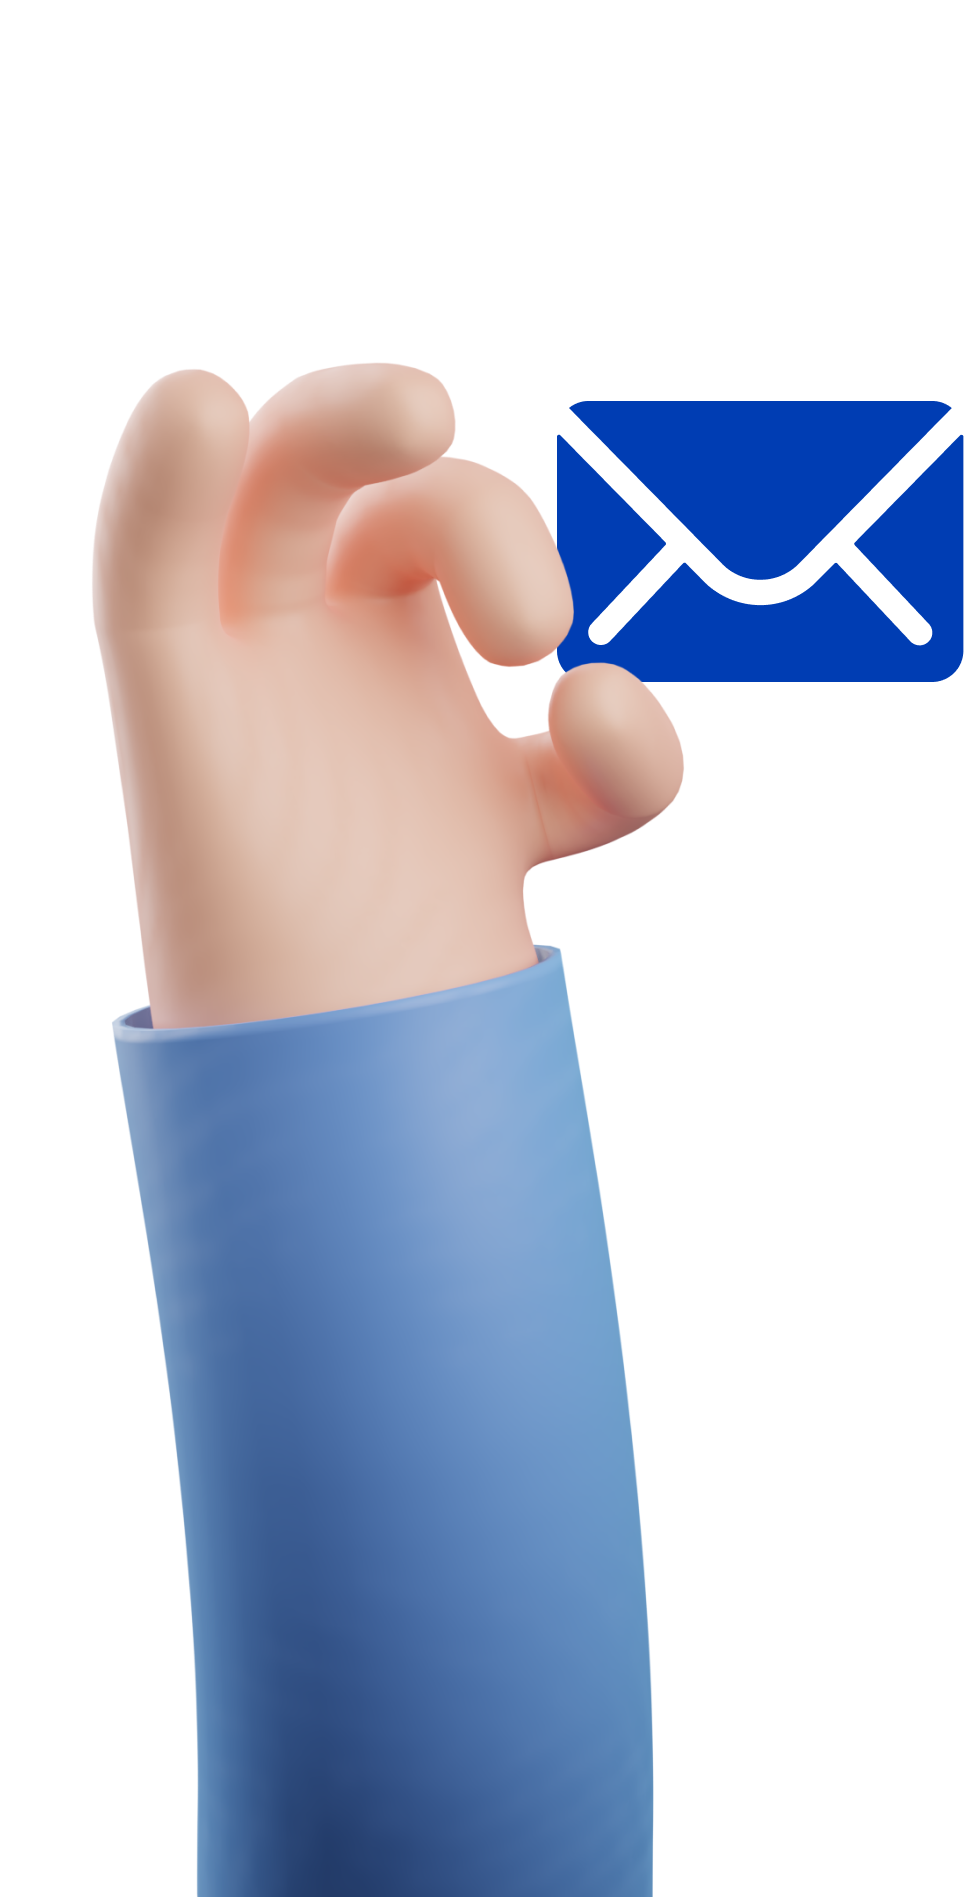
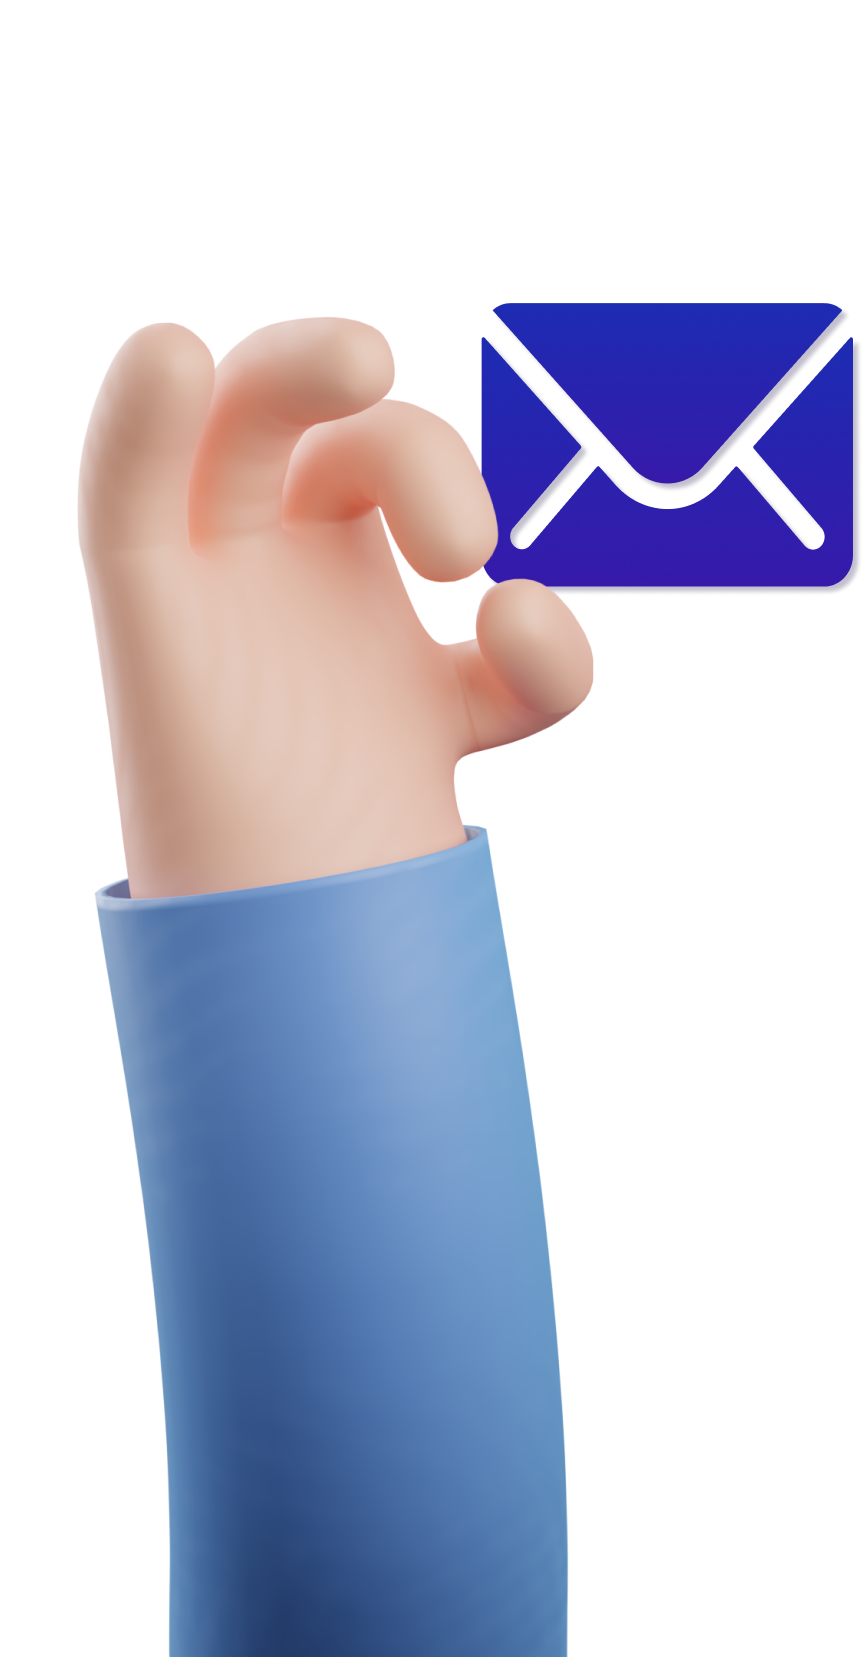
purple

diff --git a/src/Components/About/About-elements.js b/src/Components/About/About-elements.js
@@ -1,7 +1,7 @@
 import styled from "styled-components";
 import { HiDownload } from "react-icons/hi";
 import { Link as LinkS } from "react-scroll";
-import { Regular, HeroGradientReverse } from "../../App-variables";
+import { HeroGradientReverse, Dark } from "../../App-variables";
 
 export const AboutContainer = styled.div`
   color: black;
@@ -92,9 +92,10 @@ export const TextWrapper = styled.div`
 `;
 
 export const TopLine = styled.p`
-  color: ${Regular};
+  color: ${Dark};
   padding: 5px;
   font-size: 21px;
+  font-family: "Montserrat", sans serif;
   line-height: 16px;
   font-weight: 700;
   letter-spacing: 1.4px;
@@ -120,7 +121,7 @@ export const Heading = styled.h1`
   line-height: 1.1;
   font-weight: bold;
   cursor: default;
-  color: ${Regular};
+  color: ${Dark};
 
   @media screen and (max-width: 480px) {
     font-size: 26px;
@@ -205,9 +206,9 @@ export const ImgWrapper = styled.div`
 export const HeroP = styled.div`
   display: flex;
   margin: 20px 0;
-  color: ${Regular};
+  color: ${Dark};
   font-size: 21px;
-  font-family: "Montserrat";
+
   font-weight: bold;
   text-align: center;
   justify-content: center;

diff --git a/src/Components/About/About-section.js b/src/Components/About/About-section.js
@@ -1,6 +1,6 @@
 import React, { useState } from "react";
 import "aos/dist/aos.css";
-import Radu_Calin_Resume from "./../../Assets/Radu_Calin_Resume.PDF";
+import Radu_Calin_Resume from "./../../Assets/Radu_Calin_Resume.pdf";
 import { ArrowRight, ArrowForward } from "../Hero/Hero-elements";
 import "./About-button.styles.css";
 import LaptopNerd from "./../../Assets/LaptopNerd.png";
@@ -49,8 +49,8 @@ const AboutSection = () => {
                 </VideoWrapper>
                 <HeroP>
                   <p className="heroP left">&#8220;</p>
-                  Let`s discover and build new possibilities in which we can
-                  expand your vision! <p className="heroP right">&#8221;</p>
+                  There are no problems, only functions!{" "}
+                  <p className="heroP right">&#8221;</p>
                 </HeroP>
               </ImgWrapper>
             </Column1>

diff --git a/src/Components/Contact/Contact.styles.css b/src/Components/Contact/Contact.styles.css
@@ -30,15 +30,17 @@
     display: inline-block;
     position: absolute;
     left: 13%;
-    bottom: -85%;
+    bottom: -65%;
     z-index: 1;
   }
 }
 
-.splash {
+.splash-contact {
   position: absolute;
-  bottom: -60%;
-  left: -5%;
+  bottom: -55%;
+  left: -2%;
+  -webkit-transform: scaleX(-1);
+  transform: scaleX(-1);
 }
 
 .form-content-left {
@@ -54,7 +56,7 @@
 }
 
 .form-content-right {
-  margin-top: 0px;
+  margin-top: 200px;
   color: #fff;
   padding: 50px;
   max-width: 600px;
@@ -98,7 +100,7 @@
 }
 
 .form > h1 {
-  color: #002c80;
+  color: var(--dark-color);
   margin: -20px 0 20px 0;
   font-size: 24px;
   cursor: default;
@@ -133,7 +135,7 @@
   display: flex;
   font-size: 0.8rem;
   margin-bottom: 6px;
-  color: #002c80;
+  color: var(--dark-color);
   align-self: flex-start;
 }
 

diff --git a/src/Components/Contact/Form.js b/src/Components/Contact/Form.js
@@ -24,7 +24,7 @@ const Form = () => {
         <div className="handWrap">
           <img src={hand} alt="hand" width="585px" className="hand" />
         </div>
-        <img src={splash} alt="splash" className="splash" />
+        <img src={splash} alt="splash" className="splash-contact" />
         <div className="form-content-left">
           {!isSubmitted ? (
             <Contact submitForm={submitForm} />

diff --git a/src/Components/Footer/Footer-elements.js b/src/Components/Footer/Footer-elements.js
@@ -16,7 +16,7 @@ export const SocialMedia = styled.section`
   margin: 25px 0;
   padding: 25px 50px;
   align-self: center;
-  background: ${FooterGradient};
+  background: linear-gradient(180deg, #1c2bb3 0%, #3619aa 100%);
   box-shadow: 0px 0px 20px 10px rgba(0, 0, 0, 0.25);
   border-radius: 50px;
   z-index: 2;

diff --git a/src/Components/Hero/Scene.styles.css b/src/Components/Hero/Scene.styles.css
@@ -15,11 +15,12 @@
 }
 
 .splash {
+  width: 100vw;
   position: absolute;
-  left: 5%;
-  bottom: -60%;
-  -webkit-transform: scaleX(-1);
-  transform: scaleX(-1);
+  left: 0% !important;
+  bottom: 15% !important;
+  /* -webkit-transform: scaleX(-1);
+  transform: scaleX(-1); */
 }
 
 .heroGuy {

diff --git a/src/App.css b/src/App.css
@@ -1,5 +1,6 @@
 :root {
   --main-color: #563ac9;
+  --dark-color: #3014a3;
 }
 
 * {
